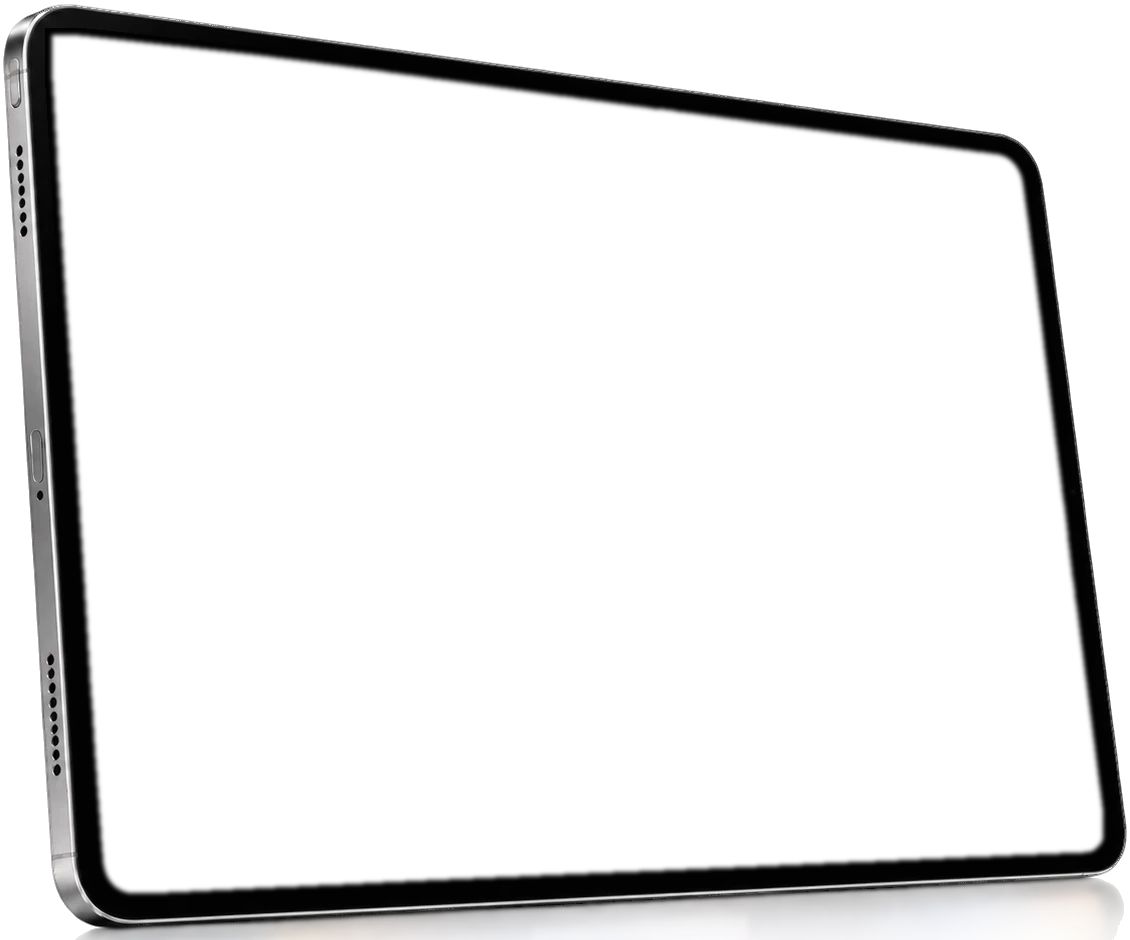
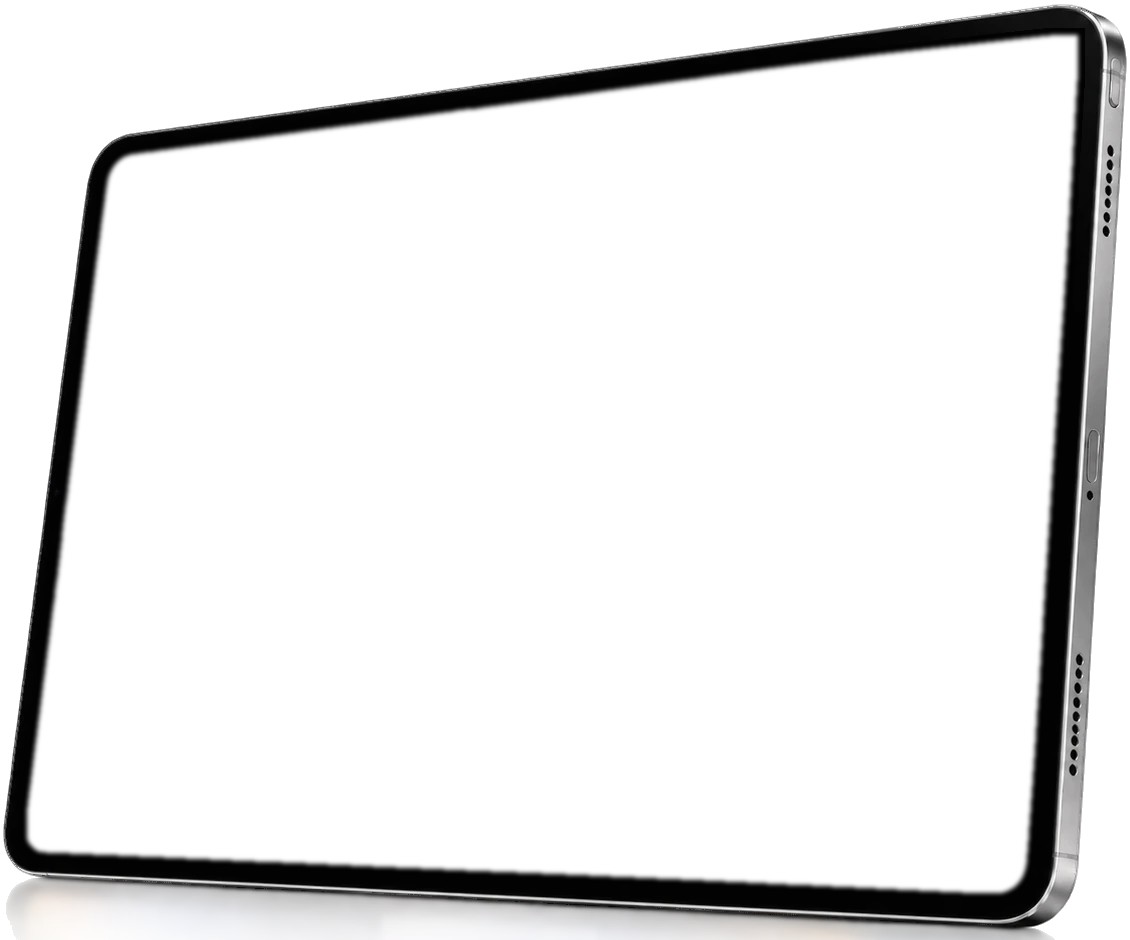
today.html: tablet mirrored, near edge on the right
Photo and silhouette mask flipped horizontally and the screen corners
swapped left/right; the tour itself is not mirrored, so its labels
still read correctly.

Changed region(s): [[0.0, 0.0, 1.0, 1.0]]

diff --git a/vsl-retro/today.html b/vsl-retro/today.html
@@ -18,7 +18,7 @@
   /* the tour layer is masked by the tablet's silhouette, so it can never show outside the device */
   .clip { position: absolute; inset: 0; z-index: 1; -webkit-mask: url(assets/ipad-mask.png) 0 0 / 100% 100% no-repeat; mask: url(assets/ipad-mask.png) 0 0 / 100% 100% no-repeat; }
   .screen { position: absolute; left: 0; top: 0; width: 1024px; height: 768px; transform-origin: 0 0;
-            transform: matrix3d(1.20692, 0.155963, 0, 0.000226378, 0.0692507, 1.08359, 0, -6.92138e-05, 0, 0, 1, 0, 32.8398, 18.0415, 0, 1); overflow: hidden; background: #000; }
+            transform: matrix3d(0.772306, -0.126613, 0, -0.000183776, -0.119656, 0.879676, 0, -5.61887e-05, 0, 0, 1, 0, 99.0356, 144.298, 0, 1); overflow: hidden; background: #000; }
   .screen iframe { display: block; width: 1024px; height: 768px; border: 0; background: #000; }
 </style>
 </head>
